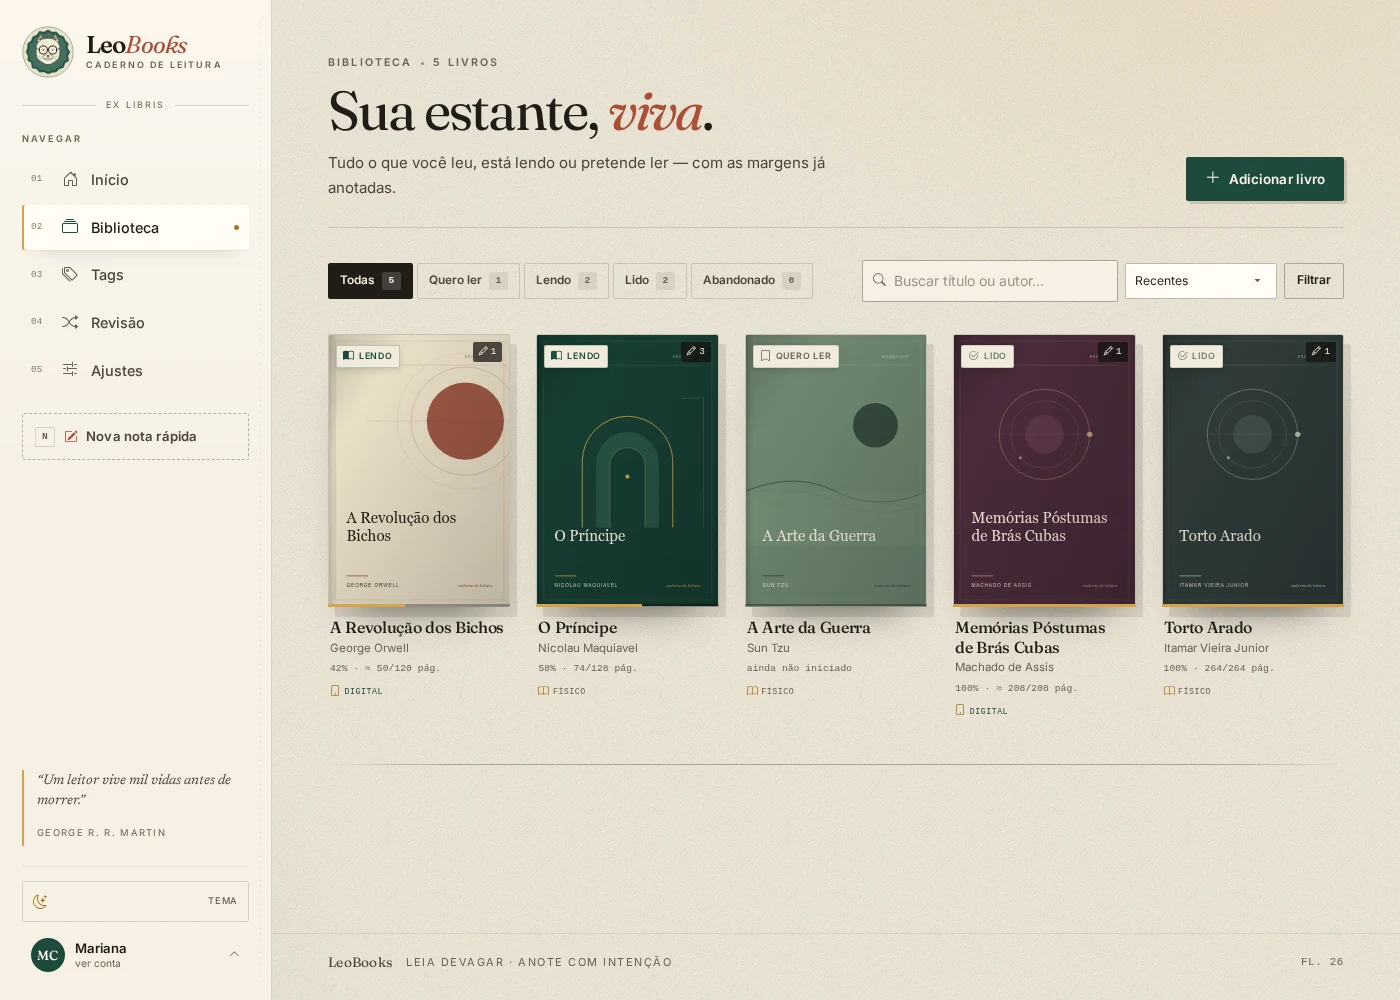
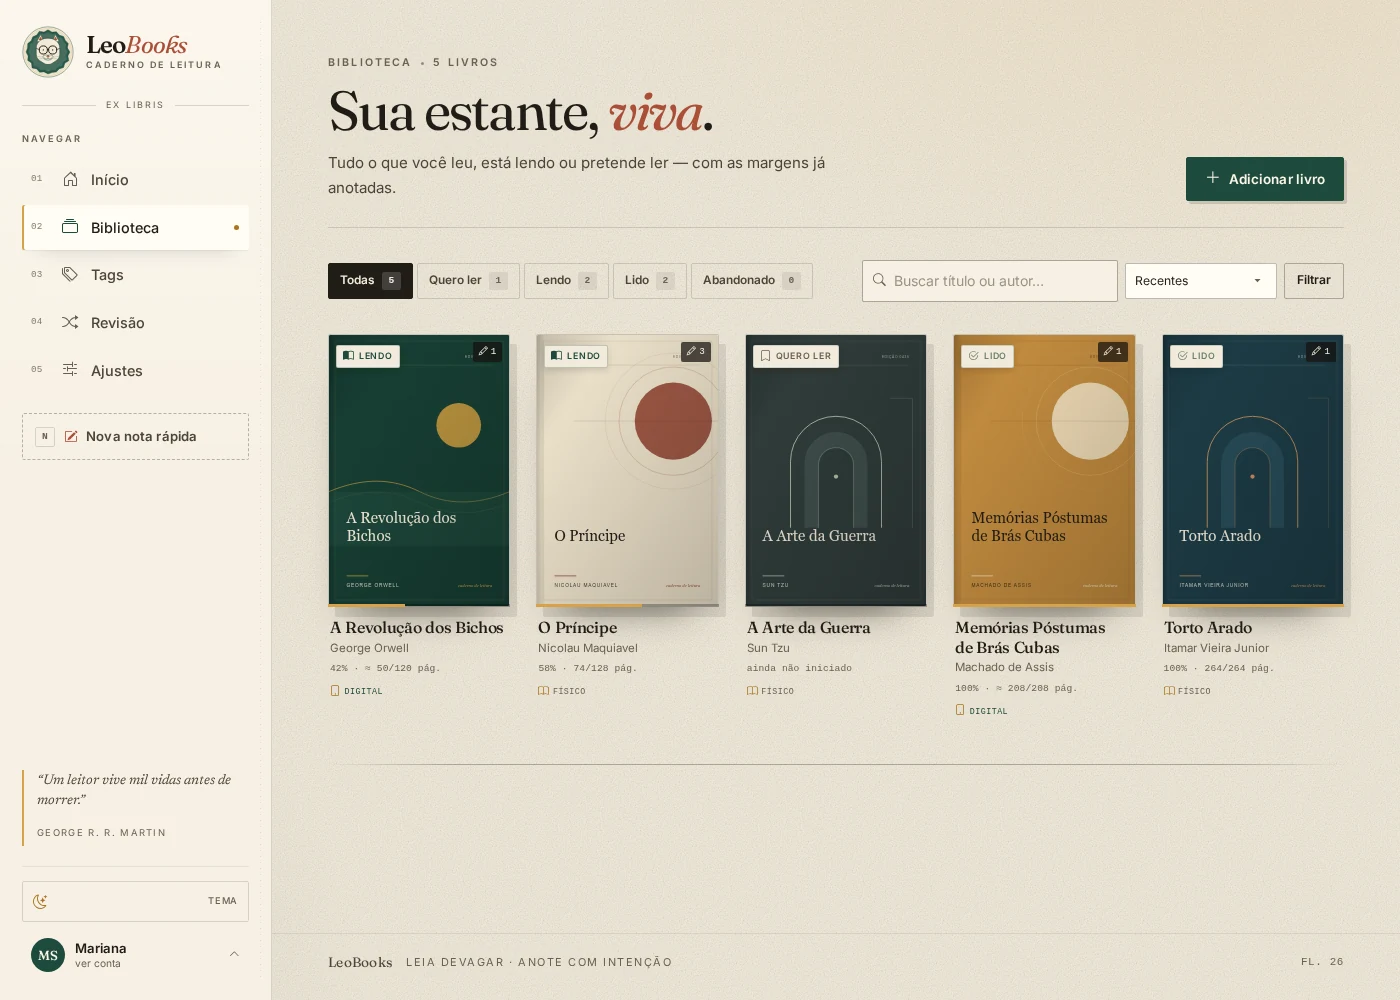
use Mariana Sales as the screenshot persona

Changed region(s): [[0.215, 0.31, 0.8293, 0.62], [0.86, 0.403, 0.9214, 0.527]]

diff --git a/scripts/generate_screenshots.py b/scripts/generate_screenshots.py
@@ -54,8 +54,8 @@ def seed() -> dict[str, str]:
     with application.app_context():
         db.create_all()
         user = User(
-            name="Mariana Costa",
-            email="mariana@leobooks.local",
+            name="Mariana Sales",
+            email="mariana.sales@leobooks.local",
             password_hash=generate_password_hash(PASSWORD),
             theme="light",
             is_admin=True,
@@ -232,7 +232,7 @@ def seed() -> dict[str, str]:
 
 def login(page) -> None:
     page.goto(f"{BASE}/login", wait_until="networkidle")
-    page.fill("#loginEmail", "mariana@leobooks.local")
+    page.fill("#loginEmail", "mariana.sales@leobooks.local")
     page.fill("#loginPassword", PASSWORD)
     page.locator("button[type=submit]").first.click()
     page.wait_for_url(f"{BASE}/", wait_until="networkidle")

diff --git a/CHANGELOG.md b/CHANGELOG.md
@@ -4,7 +4,7 @@
 
 - README reorganizado em **O que é**, **Propósito**, **Como instalar**,
   **Como usar**, **Dúvidas frequentes** e **Técnico**.
-- Capturas atualizadas na versão atual com a conta fictícia **Mariana Costa**,
+- Capturas atualizadas na versão atual com a conta fictícia **Mariana Sales**,
   incluindo desktop, celular, tutorial e tema madrugada.
 
 ## 1.0.7 — 2026-10-24

diff --git a/README.md b/README.md
@@ -6,7 +6,7 @@ não um painel de controle.
 
 ![Tela inicial do LeoBooks com a conta de Mariana](docs/screenshots/inicio.webp)
 
-> As imagens usam a conta fictícia **Mariana Costa** e livros de exemplo.
+> As imagens usam a conta fictícia **Mariana Sales** e livros de exemplo.
 > Nenhum dado real de leitor aparece nelas.
 
 ## O que é
